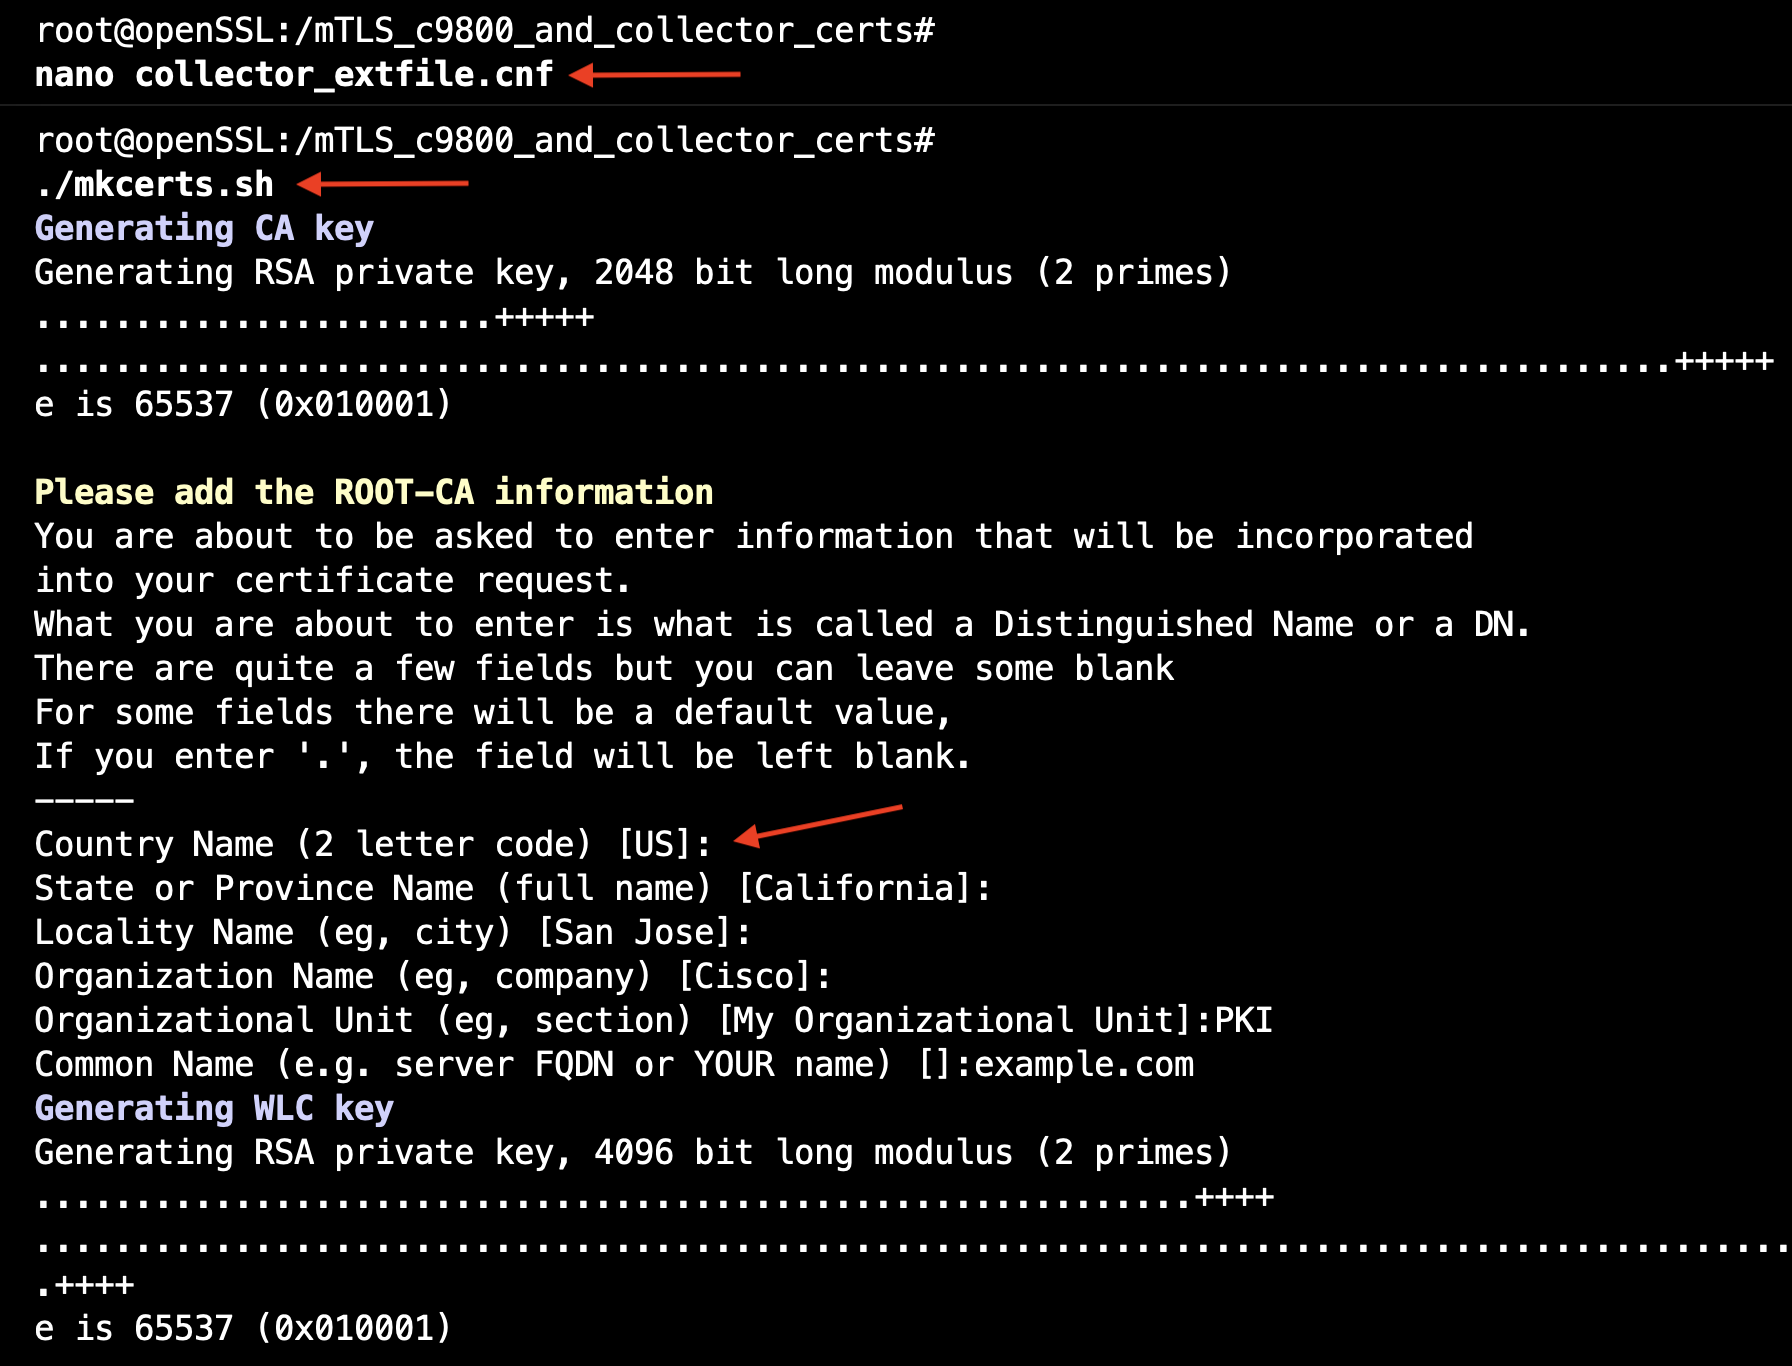
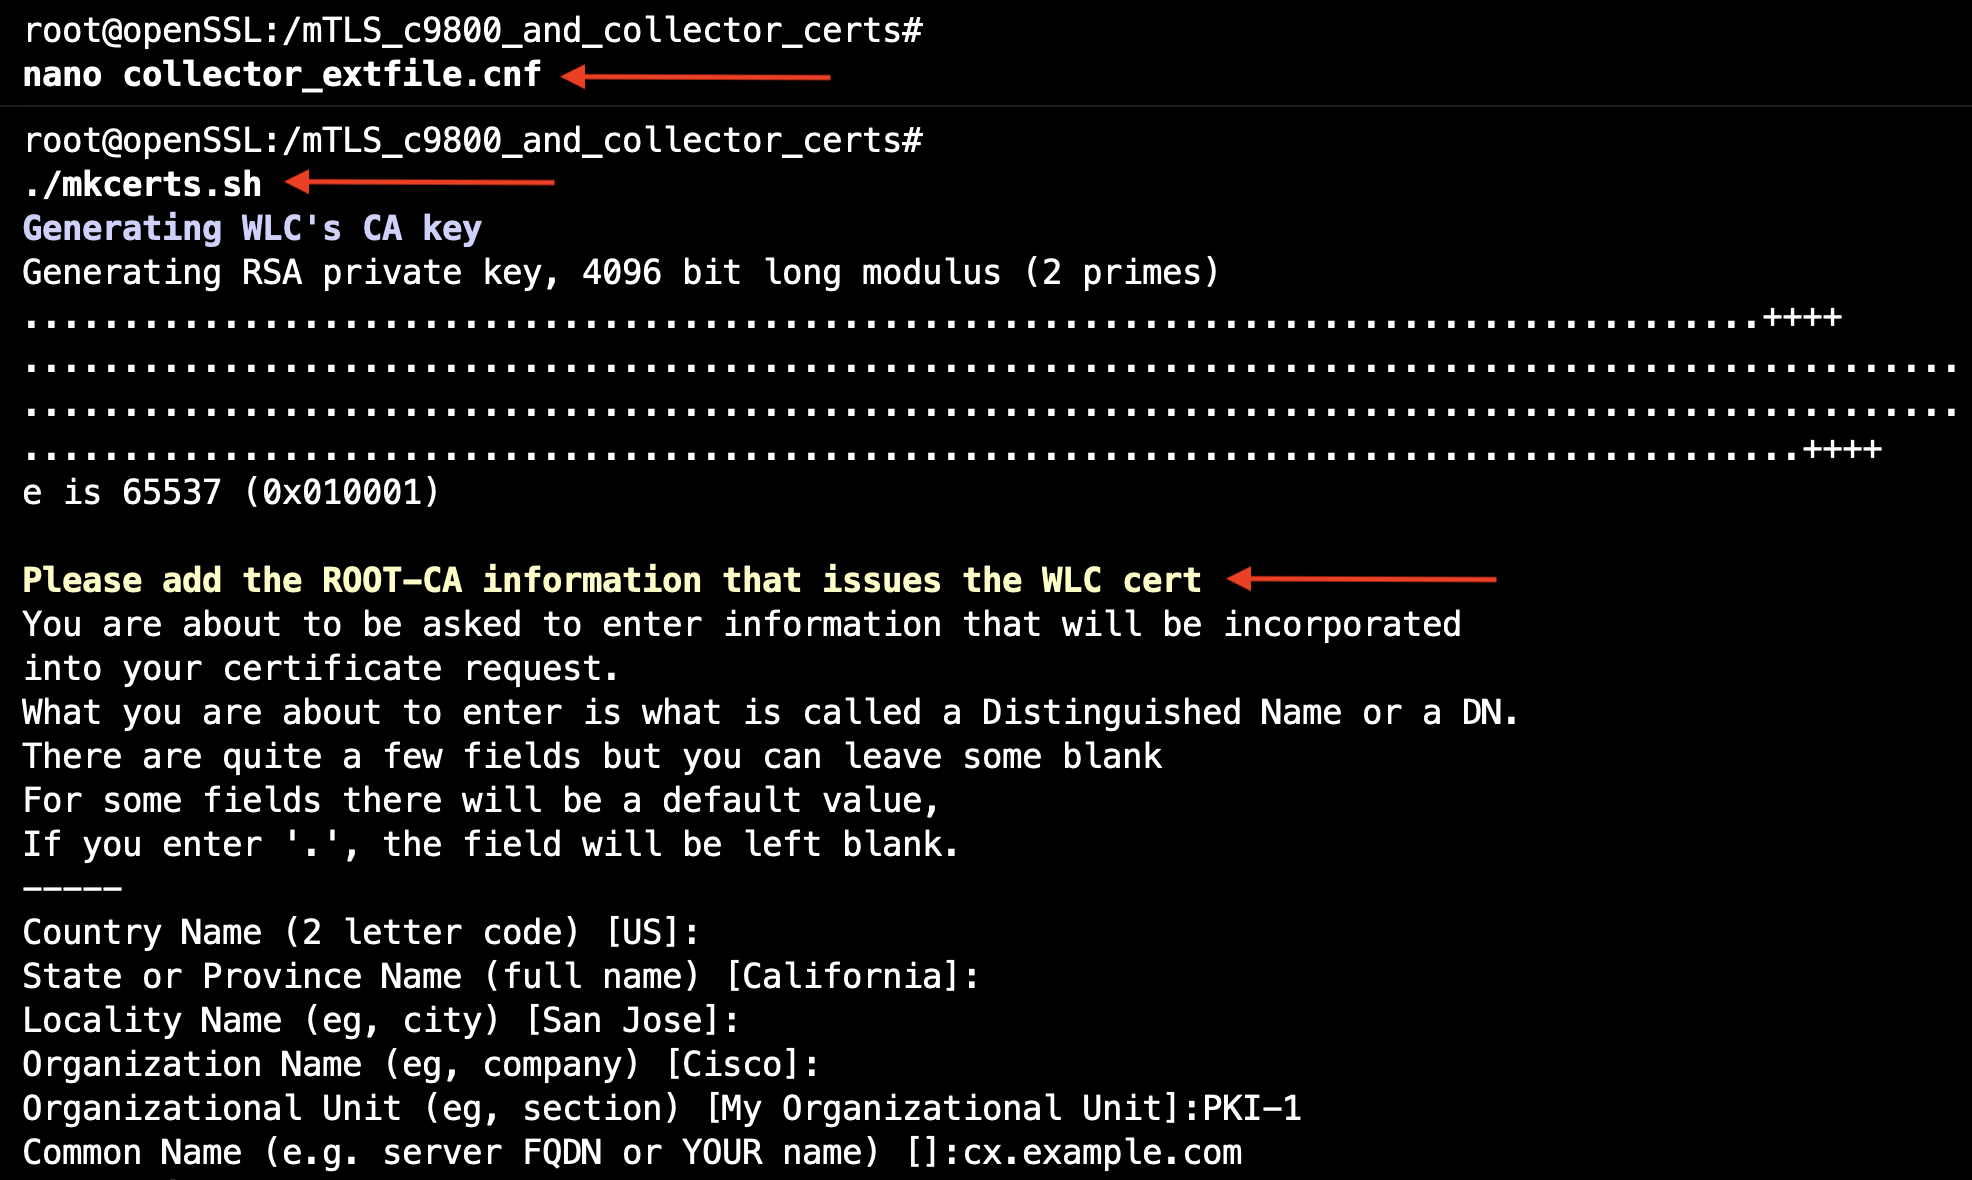
Add files

diff --git a/README.md b/README.md
@@ -51,18 +51,28 @@ The script checks if OpenSSL is installed on your system. If not, it exits with 
 
 ![cloning repository](./examples/image1.png)
 
-4. The first block of information belongs to the CA, use any information that you like, and make sure to use your domain name under the "common name" section, like; "example.com"
+4. The first block of information belongs to the CA that issues the WLC certificate, use any information that you like, and make sure to use your domain name under the "common name" section, like; "cx.example.com"
 
-![CA Information](./examples/image2.png)
+![CA Information_WLC](./examples/image2.png)
 
 5. The second block belongs to the Cisco C9800 controller
 
 ![WLC Information](./examples/image3.png)
 
-5. The third block belongs to the Telegraf server
+6. The Fourth block belongs to the CA that issues the Telegraf certificate, use any information that you like, and make sure to use your domain name under the "common name" section, like; "example.com"
 
-![Telegraf Information](./examples/image4.png)
+![CA Information_collector](./examples/image4.png)
+
+7. The Fifth block belongs to the Telegraf server
+
+![Telegraf Information](./examples/image5.png)
 ***
+
+## Output
+
+The following represents the content decoded of `collector.pem` we included DNS addresses and IP addresses
+
+![collector_,pem_decoded](./examples/image6.png)
 
 ## Configure the Trustpoint in Your C9800
 
@@ -80,16 +90,36 @@ crypto pki import <trustpoint name> pem terminal password cisco
 >The script also generates a PKCS#12 file named WLC.pfx, containing the WLC key, WLC certificate, and CA certificate.
 ***
 
+### 1st Trustpoint
 Upload the file WLC.pfx to `bootflash:` and run:
 
 ```sh
-crypto pki import <trustpoint> pkcs12 bootflash:WLC.pfx password <securePassword> 
+crypto pki import id1 pkcs12 bootflash:WLC.pfx password cisco 
 ```
+
+### 2nd 
+
+Where the certificates are placed do cat `ca_collector.pem` and copy the certificate's content.
+In the WLC terminal run:
+
+```sh
+config t
+crypto pki trustpoint ca1
+enrollment terminal
+revocation-check none
+exit
+```
+
+```sh
+crypto pki authenticate ca1
+<Paste ca_collector.pem content>
+```
+
 ### Collector Certs in Telegraf
 
 Move the generated certs to the appropriate directory for Telegraf:
 ```sh
-mv ca.pem /etc/telegraf/certs/ca.pem
+mv ca_wlc.pem /etc/telegraf/certs/ca_wlc.pem
 mv collector.pem /etc/telegraf/certs/collector.pem
 mv collector.key /etc/telegraf/certs/collector.key
 ```
